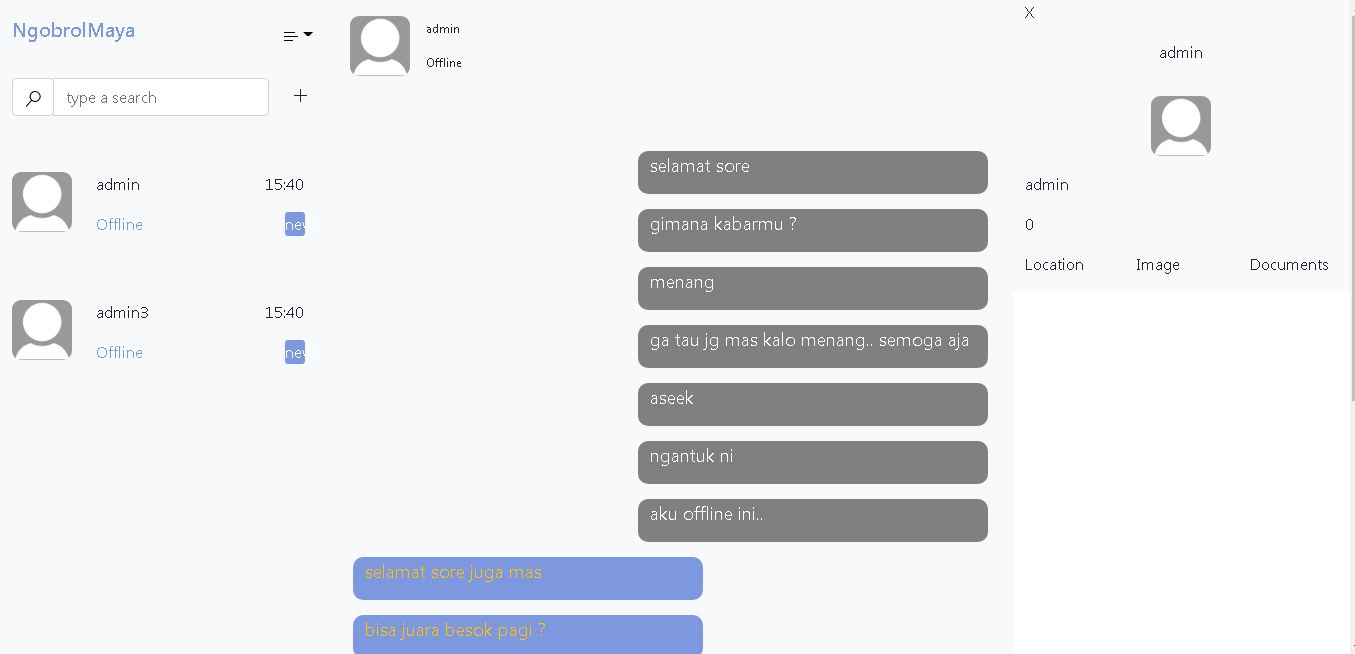
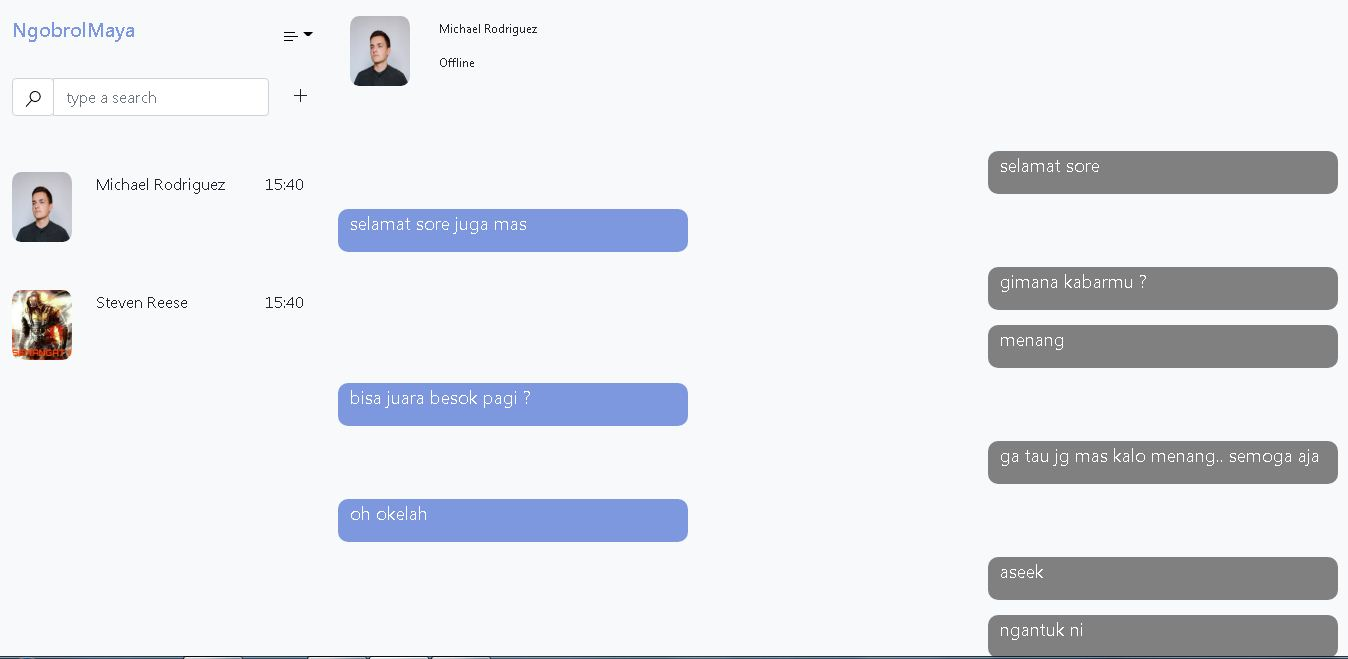
update integration for chat, edit profilem, and user's contact info

diff --git a/src/pages/main/Chat/Chat.js b/src/pages/main/Chat/Chat.js
@@ -12,7 +12,8 @@ import {
 import { VscListSelection } from "react-icons/vsc";
 import { VscAdd } from "react-icons/vsc";
 import { VscSearch } from "react-icons/vsc";
-// import { Link } from "react-router-dom";
+import { BsTrash, BsPencilSquare, BsLock } from "react-icons/bs";
+import { BiLogOut } from "react-icons/bi";
 import styles from "./ChatStyle.module.css";
 import ProfilePicture from "../../../assets/img/default-profile-icon.jpg";
 import Profile from "../../../components/profile/Profile";
@@ -35,10 +36,7 @@ require("dotenv").config();
 
 function ChatHome(props) {
   const [showMessage, setShowMessage] = useState(false);
-  const [showImage, setShowImage] = useState(
-    `http://localhost:3003/backend3/api/${props.auth.user_image}`
-  );
-  const [showImage2, setShowImage2] = useState("/default-profile-picture.jpg");
+  const [showImage, setShowImage] = useState(ProfilePicture);
   const [showProfile, setShowProfile] = useState(false);
   const [showMyProfile, setShowMyProfile] = useState(false);
   const [notification, setNotification] = useState({ show: false });
@@ -92,10 +90,8 @@ function ChatHome(props) {
   const showChatMessage = ({ roomChat, userId }) => {
     props.getOneRoomChat(roomChat, userId);
     props.getAllChat(roomChat).then((res) => {
-      // console.log(res);
       setMessages(res.action.payload.data.data);
       setShowMessage(true);
-      // props.getAllContact(friendId);
     });
     props.socket.emit("join-room", {
       room: roomChat,
@@ -145,10 +141,9 @@ function ChatHome(props) {
       };
       props.socket.emit("send-message", setData);
       props.socket.emit("notif-message", setData);
-      // console.log(setData);
       props.socket.emit("typing-message", {
         room: connectedRooms.room,
-        isTyping: false,
+        typing: false,
       });
       props.sendChat(setData).then((res) => {
         props.getAllChat(connectedRooms.room).then((res) => {
@@ -204,7 +199,6 @@ function ChatHome(props) {
     props
       .updateUserImageProfileId(props.auth.user_id, formData)
       .then((res) => {
-        console.log(res);
         setShowImage(res.action.payload.data.data.user_image);
         props.getUserProfileId(props.auth.user_id);
         props.history.push("/home");
@@ -219,7 +213,7 @@ function ChatHome(props) {
     props
       .deleteUserImageProfileId(props.auth.user_id)
       .then((res) => {
-        setShowImage2("default-profile-picture.jpg");
+        setShowImage(ProfilePicture);
         props.getUserProfileId(props.auth.user_id);
         props.history.push("/home");
       })
@@ -230,10 +224,9 @@ function ChatHome(props) {
 
   const handleLogout = () => {
     localStorage.clear();
+    props.socket.emit("disconnect-server", { userId: props.auth.user_id });
     props.history.push("/login");
   };
-
-  console.log(props.oneRoomChat);
 
   return (
     <div>
@@ -263,7 +256,7 @@ function ChatHome(props) {
                         />
                       ) : (
                         <img
-                          src={showImage2}
+                          src={showImage}
                           className={`${styles.image_size_2} rounded-circle`}
                           alt="own profile user"
                         />
@@ -286,7 +279,9 @@ function ChatHome(props) {
                     onClick={showEditOwnProfile}
                     style={{ cursor: "pointer" }}
                   >
-                    Update
+                    <i className="text-primary">
+                      <BsPencilSquare />
+                    </i>
                   </p>
                 </Col>
                 <Col>
@@ -294,7 +289,9 @@ function ChatHome(props) {
                     style={{ cursor: "pointer" }}
                     onClick={handleDeleteImageProfile}
                   >
-                    Delete
+                    <i className="text-danger">
+                      <BsTrash />
+                    </i>
                   </p>
                 </Col>
               </Row>
@@ -364,9 +361,17 @@ function ChatHome(props) {
               </Row>
               <Row>
                 <b>Settings</b>
-                <p>Change Password</p>
+                <p>
+                  <i>
+                    <BsLock />
+                  </i>
+                  {"  "}Change Password
+                </p>
                 <p onClick={handleLogout} style={{ cursor: "pointer" }}>
-                  Logout
+                  <i>
+                    <BiLogOut />
+                  </i>
+                  {"  "}Logout
                 </p>
               </Row>
             </Col>
@@ -440,20 +445,24 @@ function ChatHome(props) {
                   >
                     <Col sm={3}>
                       <img
-                        src={ProfilePicture}
+                        src={
+                          item.user_image.length > 0
+                            ? `${process.env.REACT_APP_BACKEND_IMAGE_URL}${item.user_image}`
+                            : ProfilePicture
+                        }
                         alt="profile user"
-                        className={styles.profile_picture_size}
+                        className={styles.profile_picture_size_1}
                       />
                     </Col>
                     <Col sm={6}>
                       <p>{item.user_name}</p>
                       <p className={styles.chat_text}>
-                        {typing.isTyping ? "Typing..." : ""}
+                        {typing.isTyping && <p>Typing...</p>}
                       </p>
                     </Col>
                     <Col sm={3}>
                       <p>15:40</p>
-                      {notification.show ? (
+                      {notification.messageBody ? (
                         <div className={styles.notification_bubble_chat}>
                           <p>new</p>
                         </div>
@@ -475,9 +484,13 @@ function ChatHome(props) {
                     <Row className={`${styles.chat_cursor} mt-3`}>
                       <Col xs={1}>
                         <img
-                          src={ProfilePicture}
+                          src={
+                            props.oneRoomChat[0].user_image.length > 0
+                              ? `${process.env.REACT_APP_BACKEND_IMAGE_URL}${props.oneRoomChat[0].user_image}`
+                              : ProfilePicture
+                          }
                           alt="profile user"
-                          className={styles.profile_picture_size}
+                          className={styles.profile_picture_size_2}
                         />
                       </Col>
                       <Col
@@ -531,7 +544,7 @@ function ChatHome(props) {
                           item.sender_id === props.auth.user_id ||
                           item.senderId === props.auth.user_id
                             ? styles.bubble_chat_sender
-                            : styles.bubble_chat
+                            : styles.bubble_chat_2
                         }
                       >
                         <p>{item.message}</p>

diff --git a/src/components/profile/Profile.js b/src/components/profile/Profile.js
@@ -4,7 +4,7 @@ import styles from "./ProfileStyle.module.css";
 import ProfilePicture from "../../assets/img/default-profile-icon.jpg";
 
 function Profile(props) {
-  console.log(props);
+  // console.log(props);
   return (
     <div>
       <Row className="bg-light">
@@ -16,25 +16,30 @@ function Profile(props) {
         <p className="mt-3 text-center">{props.oneRoomChat.user_name}</p>
         <Col className="bg-light mt-3 text-center">
           <img
-            src={ProfilePicture}
+            src={
+              props.oneRoomChat.user_image.length > 0
+                ? `${process.env.REACT_APP_BACKEND_IMAGE_URL}${props.oneRoomChat.user_image}`
+                : ProfilePicture
+            }
             alt="profile user"
             className={styles.profile_picture_size}
           />
           <div className={`${styles.text_name_position} text-left mt-3 ml-2`}>
             <p>{props.oneRoomChat.user_name}</p>
+            <b>Phone Number</b>
             <p>{props.oneRoomChat.user_phone}</p>
           </div>
         </Col>
       </Row>
       <Row className="bg-light">
         <Col>
-          <p>Location</p>
+          <b>Location</b>
         </Col>
         <Col>
-          <p>Image</p>
+          <b>Image</b>
         </Col>
         <Col>
-          <p>Documents</p>
+          <b>Documents</b>
         </Col>
       </Row>
     </div>

diff --git a/src/pages/main/Chat/ChatStyle.module.css b/src/pages/main/Chat/ChatStyle.module.css
@@ -27,8 +27,9 @@
   border-color: lightgray;
 }
 
-.profile_picture_size {
+.profile_picture_size_1 {
   width: 60px;
+  height: 70px;
   border-radius: 15%;
 }
 
@@ -58,8 +59,9 @@
   display: none;
 }
 
-.profile_picture_size {
+.profile_picture_size_2 {
   width: 60px;
+  height: 70px;
   border-radius: 15%;
 }
 
@@ -105,6 +107,17 @@
   margin-top: 15px;
 }
 
+.bubble_chat_2 {
+  width: 350px;
+  background-color: #7e98df;
+  color: white;
+  font-size: 18px;
+  border-radius: 10px;
+  margin-left: 0px;
+  margin-top: 15px;
+  margin-right: 200px;
+}
+
 .bubble_chat_sender {
   width: 350px;
   background-color: gray;
@@ -138,6 +151,10 @@
   width: 700px !important;
 }
 
+.input_size_2 {
+  width: 1100px !important;
+}
+
 .input_message_width {
   margin-bottom: 45%;
 }
@@ -155,11 +172,11 @@
 .image_size_2 {
   width: 80px;
   height: 80px;
-  margin-left: 120px;
+  margin-left: 115px;
 }
 
 .word_position_1 {
-  float: right;
+  margin-left: 125px;
 }
 
 .image-upload > input {

diff --git a/src/pages/auth/Login/Login.js b/src/pages/auth/Login/Login.js
@@ -55,6 +55,9 @@ function Login(props) {
       <Container>
         <Card className={`${styles.card_size} mt-5 mx-auto`}>
           <Card.Body>
+            <Link to="/" className={styles.back_button}>
+              <h5>{"<"}</h5>
+            </Link>
             <h3 className={`${styles.login_text} text-center mt-4`}>Login</h3>
             <p className="mt-3">Hi, Welcome back</p>
             <Form onSubmit={handleLogin} className="mt-4" noValidate>

diff --git a/src/pages/auth/Login/Login.module.css b/src/pages/auth/Login/Login.module.css
@@ -3,6 +3,15 @@
   border-color: white;
 }
 
+.back_button {
+  text-decoration: none;
+  color: #7e98df;
+}
+
+.back_button:hover {
+  color: #7e98df;
+}
+
 .login_text {
   color: #7e98df;
 }

diff --git a/src/components/profile/ProfileStyle.module.css b/src/components/profile/ProfileStyle.module.css
@@ -1,5 +1,6 @@
 .profile_picture_size {
-  width: 60px;
+  width: 70px;
+  height: 80px;
   border-radius: 15%;
 }
 
